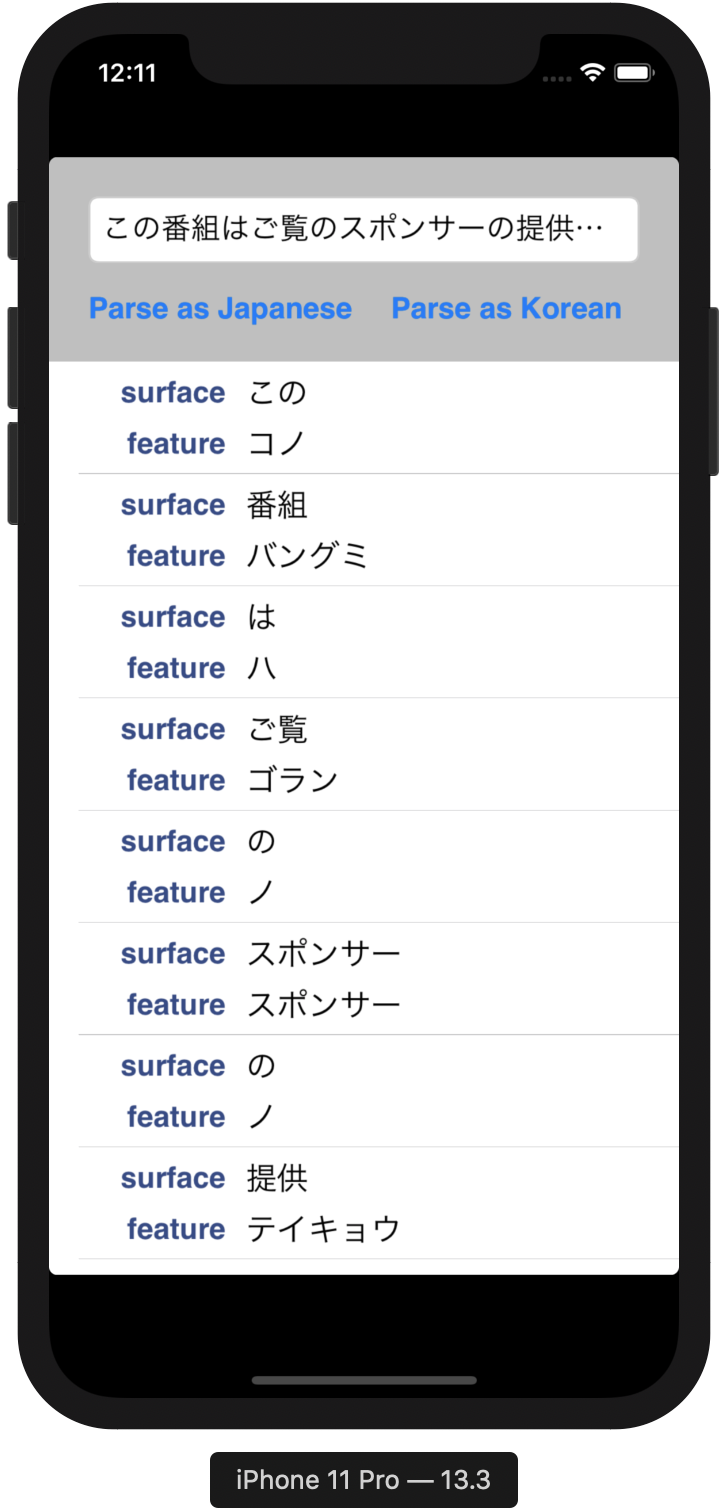
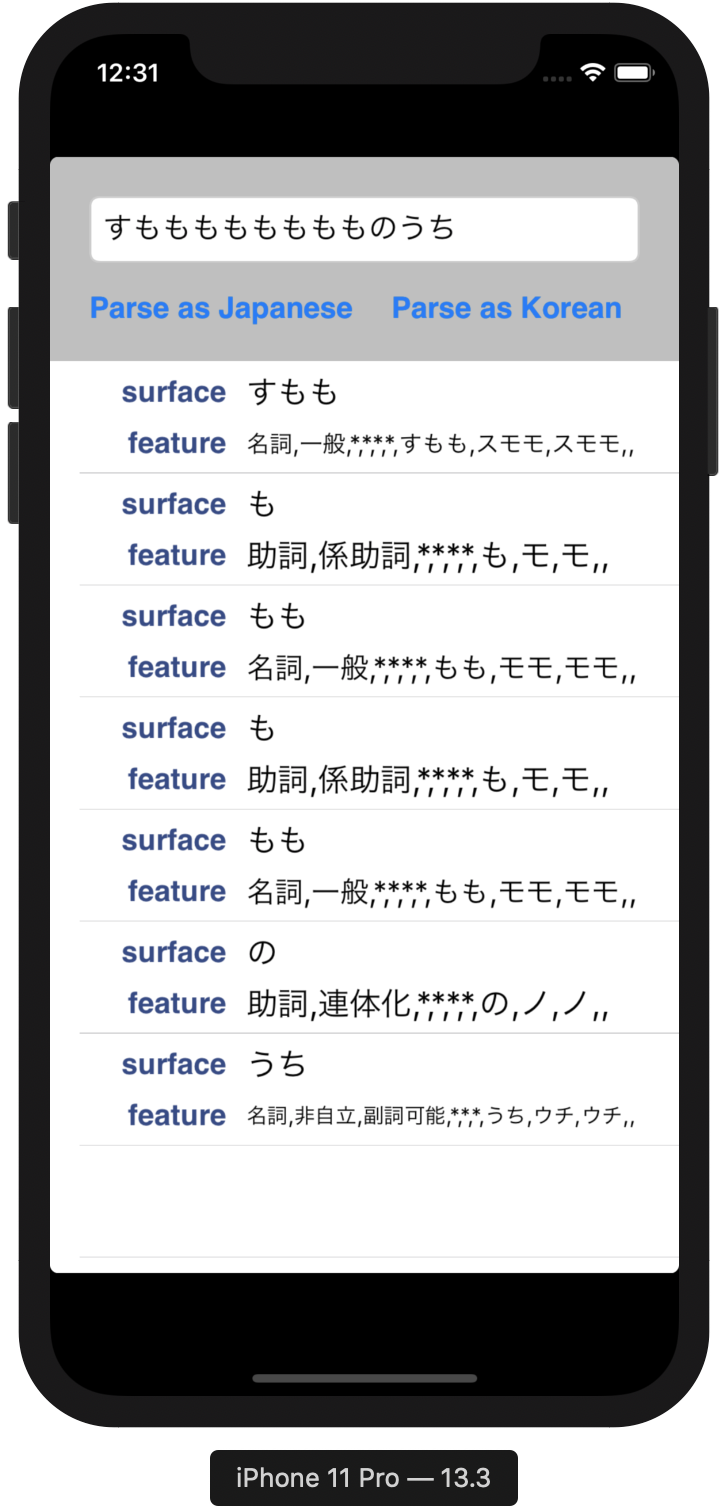
Display feature string in sample app and add docs to readme

diff --git a/LibMecabSample/iOS UI/LibMecabSampleViewController.m b/LibMecabSample/iOS UI/LibMecabSampleViewController.m
@@ -70,7 +70,8 @@
     }
 	MecabNode *node = [nodes objectAtIndex:indexPath.row];
 	cell.surfaceLabel.text = node.surface;
-    cell.featureLabel.text = [node reading]; // node.pronunciation field (field index 8) exists in Japanese (whether or not populated), but for Korean, the top index is 7 (which corresponds to node.pronunciation), although I don't yet know what that actually is.
+    cell.featureLabel.text = node.feature;
+    // node.pronunciation field (field index 8) exists in Japanese (whether or not populated), but for Korean, the top index is 7 (which corresponds to node.pronunciation), although I don't yet know what that actually is.
     
     return cell;
 }

diff --git a/readme.md b/readme.md
@@ -114,7 +114,7 @@ self.mecab = [[Mecab alloc] initWithDicDirPath:jpDicBundleResourcePath];
 NSArray<MecabNode *> results = [mecab parseToNodeWithString:@"すもももももももものうち"];
 ```
 
-This would give you the following result:
+This would give you an array of nodes with the following raw metadata:
 
 ```
 すもも: 名詞,一般,*,*,*,*,すもも,スモモ,スモモ  
@@ -126,11 +126,58 @@ This would give you the following result:
 うち: 名詞,非自立,副詞可能,*,*,*,うち,ウチ,ウチ
 ```
 
-If you're planning to use this to present results to users, you'll probably need to write quite a bit of parsing code to put the nodes back together in a useful way since the nodes will be broken down into the smallest possible pieces.
+You can access each piece of metadata by getting the full comma-separated feature string `node.feature` or calling the lazy getters such as `node.surface` which index into that string. Note that these interfaces correspond to NAIST JDIC; (Korean support is secondary, unfortunately)! If you know the schema for `mecab-ko-dic`, I can improve the interface.
 
-A few examples:
+```objc
+@interface MecabNode : NSObject {
+    /* What text the node consists of. */
+    NSString *surface;
 
-欲しがっていた  
+    /* The raw comma-separated string of metadata about the node. */
+    NSString *feature;
+
+    /* All the comma-separated features converted into an array, for 
+     * direct access. */
+    NSArray<NSString *> *features;
+
+    /* The leading whitespace in front of this node (strictly 0 for the
+     * first node, as Mecab always trims whitespace at the start of input
+     * text). */
+    int leadingWhitespaceLength;
+
+    /* Trailing whitespace is only calculated if passing YES into
+     * calculateTrailingWhitespace when calling this method on the mecab
+     * instance:
+     * 
+     * - (NSArray<MecabNode *> *)parseToNodeWithString:(NSString *)string calculateTrailingWhitespace:(BOOL)calculateTrailingWhitespace;
+     *
+     */
+    NSString *trailingWhitespace;
+    
+    /* These getter names correspond to the IPADIC format (as this library was 
+     * originally written purely with a Japanese IPADIC-based dictionary in
+     * mind), but are in index order, so can equally be used for mecab-ko-dic
+     * if you don't mind the names being totally unhelpful.
+     *
+     * If I knew the schema of mecab-ko-dic, I could improve this; sorry! */
+    NSString *partOfSpeech;         // index 0
+    NSString *partOfSpeechSubtype1; // index 1
+    NSString *partOfSpeechSubtype2; // index 2
+    NSString *partOfSpeechSubtype3; // index 3
+    NSString *inflection;           // index 4
+    NSString *useOfType;            // index 5
+    NSString *originalForm;         // index 6
+    NSString *reading;              // index 7
+    NSString *pronunciation;        // index 8 (not present in mecab-ko-dic!)
+}
+```
+
+### Examples
+
+#### Japanese
+
+> 欲しがっていた
+
 ```
 欲し: 形容詞,自立,*,*,形容詞・イ段,ガル接続,欲しい,ホシ,ホシ  
 がっ: 動詞,接尾,*,*,五段・ラ行,連用タ接続,がる,ガッ,ガッ  
@@ -139,7 +186,8 @@ A few examples:
 た: 助動詞,*,*,*,特殊・タ,基本形,た,タ,タ  
 ```
 
-通ったんだろうな  
+> 通ったんだろうな
+
 ```
 通っ: 動詞,自立,*,*,五段・ラ行,連用タ接続,通る,トオッ,トーッ  
 た: 助動詞,*,*,*,特殊・タ,基本形,た,タ,タ  
@@ -149,13 +197,46 @@ A few examples:
 な: 助詞,終助詞,*,*,*,*,な,ナ,ナ  
 ```
 
-光らせておくように  
+> 光らせておくように
+
 ```
 光らせ: 動詞,自立,*,*,一段,連用形,光らせる,ヒカラセ,ヒカラセ  
 て: 助詞,接続助詞,*,*,*,*,て,テ,テ  
 おく: 動詞,非自立,*,*,五段・カ行イ音便,基本形,おく,オク,オク  
 よう: 名詞,非自立,助動詞語幹,*,*,*,よう,ヨウ,ヨー  
 に: 助詞,副詞化,*,*,*,*,に,ニ,ニ  
+```
+
+#### Korean
+
+Note how ko-dic has one less feature column than NAIST JDIC – so be careful not to index into index 8 of the feature set (`node.pronunciation`).
+
+> mecab-ko-dic은 MeCab을 사용하여, 한국어 형태소 분석을 하기 위한 프로젝트입니다.
+
+```
+mecab    SL,*,*,*,*,*,*,*
+-    SY,*,*,*,*,*,*,*
+ko    SL,*,*,*,*,*,*,*
+-    SY,*,*,*,*,*,*,*
+dic    SL,*,*,*,*,*,*,*
+은    JX,*,T,은,*,*,*,*
+MeCab    SL,*,*,*,*,*,*,*
+을    JKO,*,T,을,*,*,*,*
+사용    NNG,행위,T,사용,*,*,*,*
+하    XSV,*,F,하,*,*,*,*
+여    EC,*,F,여,*,*,*,*
+,    SC,*,*,*,*,*,*,*
+한국어    NNG,*,F,한국어,Compound,*,*,한국/NNG/*+어/NNG/*
+형태소    NNG,*,F,형태소,Compound,*,*,형태/NNG/*+소/NNG/*
+분석    NNG,행위,T,분석,*,*,*,*
+을    JKO,*,T,을,*,*,*,*
+하    VV,*,F,하,*,*,*,*
+기    ETN,*,F,기,*,*,*,*
+위한    VV+ETM,*,T,위한,Inflect,VV,ETM,위하/VV/*+ᆫ/ETM/*
+프로젝트    NNG,*,F,프로젝트,*,*,*,*
+입니다    VCP+EF,*,F,입니다,Inflect,VCP,EF,이/VCP/*+ᄇ니다/EF/*
+.    SF,*,*,*,*,*,*,*
+EOS
 ```
 
 ## License
